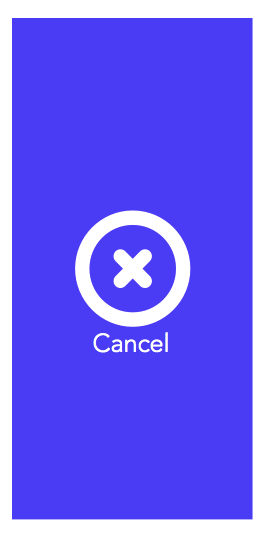
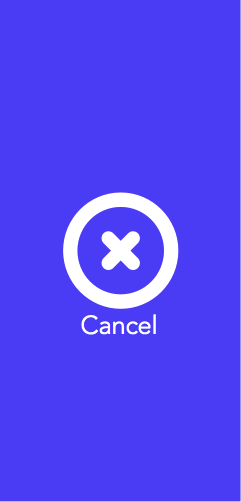
updated some more of the ui

Changed region(s): [[0.0, 0.0, 1.0, 1.0], [0.2614, 0.3586, 0.7552, 0.6873]]

diff --git a/Pull/Classes/PULUserTableCellBackgroundView.m b/Pull/Classes/PULUserTableCellBackgroundView.m
@@ -90,8 +90,9 @@ IB_DESIGNABLE
             
             if (!_accessoryImageViewContainer)
             {
-                _accessoryImageViewContainer = [view copy];
+                _accessoryImageViewContainer = [[PULUserImageView alloc] initWithFrame:view.frame];
                 _accessoryImageViewContainer.hidden = YES;
+                _accessoryImageViewContainer.borderColor = [UIColor whiteColor];
                 
                 _accessoryImageViewContainer.imageView = [[UIImageView alloc] initWithFrame:CGRectMake(0, 0, size.width, size.height)];
                 _accessoryImageViewContainer.imageView.contentMode = UIViewContentModeScaleAspectFill;
@@ -103,9 +104,8 @@ IB_DESIGNABLE
             
             _accessoryImageViewContainer.frame = _left ? _rightImageViewFrame : _leftImageViewFrame;
             
-            UIColor *color = _left ? [UIColor colorWithRed:0.537 green:0.184 blue:1.000 alpha:1.000] : [UIColor redColor];
             
-            _accessoryImageViewContainer.borderColor = color;
+            _accessoryImageViewContainer.borderColor = [UIColor whiteColor];
             _accessoryImageViewContainer.backgroundColor = [UIColor clearColor];
             
             center = _accessoryImageViewContainer.center;
@@ -142,29 +142,21 @@ IB_DESIGNABLE
     
     CGContextSetFillColorWithColor(ref, [UIColor whiteColor].CGColor);
     
-    UIColor *borderColor;
-    if (!self.left)
-    {
-        borderColor = [UIColor redColor];
-    }
-    else
-    {
-        borderColor =  [UIColor colorWithRed:0.537 green:0.184 blue:1.000 alpha:1.000];
-    }
-    
-    
-    CGContextSetStrokeColorWithColor(ref, borderColor.CGColor);
-    
     CGRect innerRect = CGRectInset(rect, 2, 4);
     UIBezierPath *path = [UIBezierPath bezierPathWithRoundedRect:innerRect cornerRadius:180];
     
     [path fill];
-    
-    if (_pulling)
-    {
-        path.lineWidth = 4.0;
-        [path stroke];
-    }
+//    
+//    if (_pulling)
+//    {
+//        UIColor *borderColor =  [UIColor colorWithRed:0.537 green:0.184 blue:1.000 alpha:1.000];
+//        
+//        CGContextSetStrokeColorWithColor(ref, borderColor.CGColor);
+//
+//        
+//        path.lineWidth = 4.0;
+//        [path stroke];
+//    }
 }
 
 

diff --git a/Pull/Classes/UI/Cells/Table Cells/PULUserCell.m b/Pull/Classes/UI/Cells/Table Cells/PULUserCell.m
@@ -132,18 +132,18 @@
         self.bgView.pulling = YES;
         [self.bgView setNeedsDisplay];
         
-        UIColor *borderColor;
-        if (!self.bgView.left)
-        {
-            borderColor = [UIColor redColor];
-        }
-        else
-        {
-            borderColor =  [UIColor colorWithRed:0.537 green:0.184 blue:1.000 alpha:1.000];
-        }
-        
-        _userImageViewContainer.borderColor = borderColor;
-        
+//        UIColor *borderColor;
+//        if (!self.bgView.left)
+//        {
+//            borderColor = [UIColor redColor];
+//        }
+//        else
+//        {
+//            borderColor =  [UIColor colorWithRed:0.537 green:0.184 blue:1.000 alpha:1.000];
+//        }
+//        
+//        _userImageViewContainer.borderColor = borderColor;
+//        
         [_userImageViewContainer setNeedsDisplay];
         
         // hide some ui
@@ -237,7 +237,7 @@
             }
             
             self.bgView.pulling = NO;
-            _userImageViewContainer.borderColor = nil;
+//            _userImageViewContainer.borderColor = nil;
             [_userImageViewContainer setNeedsDisplay];
             
             // show hidden ui
